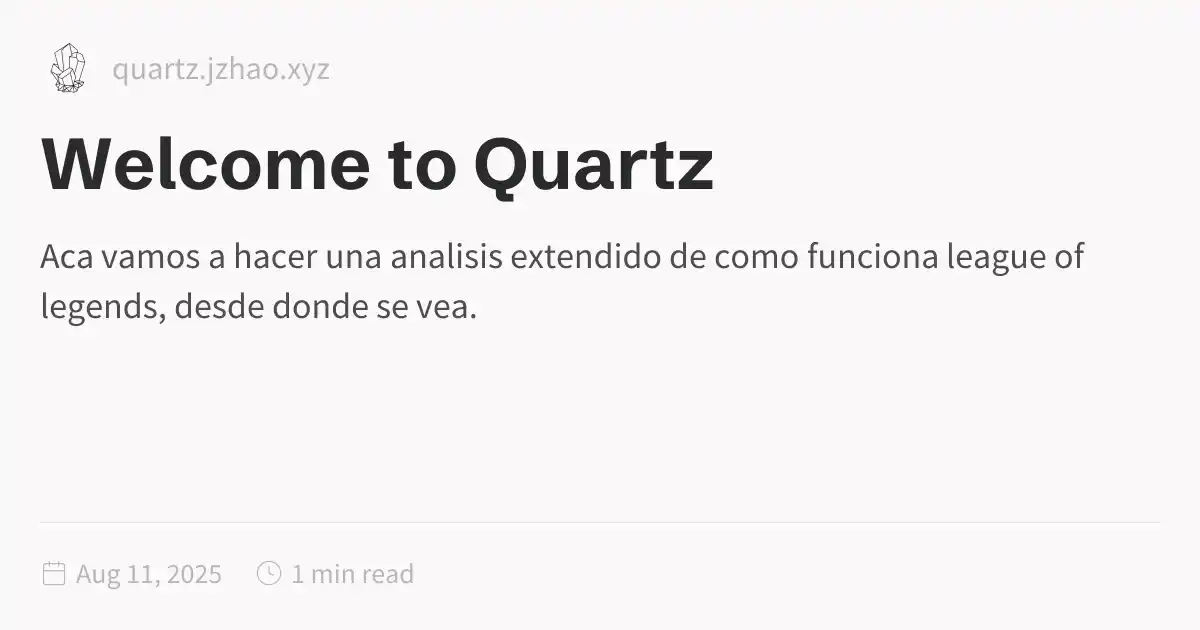
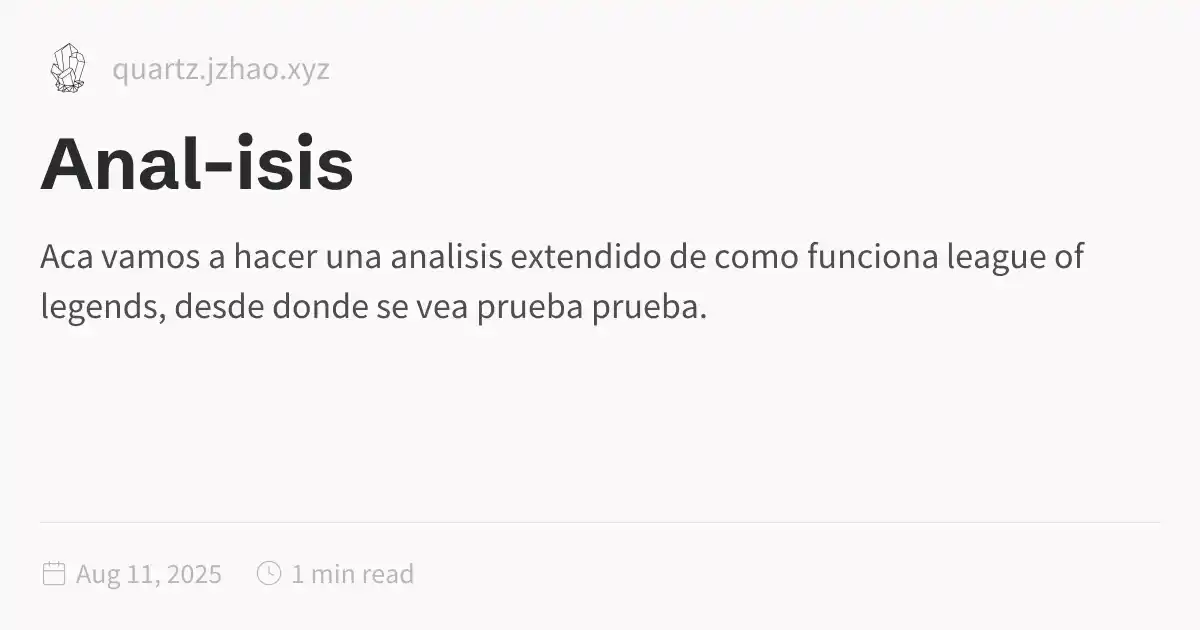
Quartz sync: Aug 12, 2025, 1:55 PM

Changed region(s): [[0.0308, 0.2111, 0.6167, 0.3317], [0.4008, 0.4524, 0.5858, 0.5127]]

diff --git a/public/LOL/anal-isis.html b/public/LOL/anal-isis.html
@@ -1,5 +1,5 @@
 <!DOCTYPE html>
-<html lang="en"><head><title>Welcome to Quartz</title><meta charset="utf-8"/><link rel="preconnect" href="https://fonts.googleapis.com"/><link rel="preconnect" href="https://fonts.gstatic.com"/><link rel="stylesheet" href="https://fonts.googleapis.com/css2?family=Schibsted Grotesk:wght@400;700&amp;family=Source Sans Pro:ital,wght@0,400;0,600;1,400;1,600&amp;family=IBM Plex Mono:wght@400;600&amp;display=swap"/><link rel="preconnect" href="https://cdnjs.cloudflare.com" crossorigin="anonymous"/><meta name="viewport" content="width=device-width, initial-scale=1.0"/><meta name="og:site_name" content="Quartz 4"/><meta property="og:title" content="Welcome to Quartz"/><meta property="og:type" content="website"/><meta name="twitter:card" content="summary_large_image"/><meta name="twitter:title" content="Welcome to Quartz"/><meta name="twitter:description" content="Aca vamos a hacer una analisis extendido de como funciona league of legends, desde donde se vea."/><meta property="og:description" content="Aca vamos a hacer una analisis extendido de como funciona league of legends, desde donde se vea."/><meta property="og:image:alt" content="Aca vamos a hacer una analisis extendido de como funciona league of legends, desde donde se vea."/><meta property="twitter:domain" content="quartz.jzhao.xyz"/><meta property="og:url" content="https://quartz.jzhao.xyz/LOL/anal-isis"/><meta property="twitter:url" content="https://quartz.jzhao.xyz/LOL/anal-isis"/><link rel="icon" href="../static/icon.png"/><meta name="description" content="Aca vamos a hacer una analisis extendido de como funciona league of legends, desde donde se vea."/><meta name="generator" content="Quartz"/><link href="../index.css" rel="stylesheet" type="text/css" spa-preserve/><style>.expand-button {
+<html lang="en"><head><title>Anal-isis</title><meta charset="utf-8"/><link rel="preconnect" href="https://fonts.googleapis.com"/><link rel="preconnect" href="https://fonts.gstatic.com"/><link rel="stylesheet" href="https://fonts.googleapis.com/css2?family=Schibsted Grotesk:wght@400;700&amp;family=Source Sans Pro:ital,wght@0,400;0,600;1,400;1,600&amp;family=IBM Plex Mono:wght@400;600&amp;display=swap"/><link rel="preconnect" href="https://cdnjs.cloudflare.com" crossorigin="anonymous"/><meta name="viewport" content="width=device-width, initial-scale=1.0"/><meta name="og:site_name" content="Quartz 4"/><meta property="og:title" content="Anal-isis"/><meta property="og:type" content="website"/><meta name="twitter:card" content="summary_large_image"/><meta name="twitter:title" content="Anal-isis"/><meta name="twitter:description" content="Aca vamos a hacer una analisis extendido de como funciona league of legends, desde donde se vea prueba prueba."/><meta property="og:description" content="Aca vamos a hacer una analisis extendido de como funciona league of legends, desde donde se vea prueba prueba."/><meta property="og:image:alt" content="Aca vamos a hacer una analisis extendido de como funciona league of legends, desde donde se vea prueba prueba."/><meta property="twitter:domain" content="quartz.jzhao.xyz"/><meta property="og:url" content="https://quartz.jzhao.xyz/LOL/anal-isis"/><meta property="twitter:url" content="https://quartz.jzhao.xyz/LOL/anal-isis"/><link rel="icon" href="../static/icon.png"/><meta name="description" content="Aca vamos a hacer una analisis extendido de como funciona league of legends, desde donde se vea prueba prueba."/><meta name="generator" content="Quartz"/><link href="../index.css" rel="stylesheet" type="text/css" spa-preserve/><style>.expand-button {
   position: absolute;
   display: flex;
   float: right;
@@ -116,7 +116,8 @@ pre:hover > .expand-button {
   padding: 0 12px;
   font-size: 14px;
 }
[2 lines of base64/hex data omitted]
+<p>prueba prueba</p></article><hr/><div class="page-footer"></div></div><div class="right sidebar"><div class="graph"><h3>Graph View</h3><div class="graph-outer"><div class="graph-container" data-cfg="{&quot;drag&quot;:true,&quot;zoom&quot;:true,&quot;depth&quot;:1,&quot;scale&quot;:1.1,&quot;repelForce&quot;:0.5,&quot;centerForce&quot;:0.3,&quot;linkDistance&quot;:30,&quot;fontSize&quot;:0.6,&quot;opacityScale&quot;:1,&quot;showTags&quot;:true,&quot;removeTags&quot;:[],&quot;focusOnHover&quot;:false,&quot;enableRadial&quot;:false}"></div><button class="global-graph-icon" aria-label="Global Graph"><svg version="1.1" xmlns="http://www.w3.org/2000/svg" xmlns:xlink="http://www.w3.org/1999/xlink" x="0px" y="0px" viewBox="0 0 55 55" fill="currentColor" xml:space="preserve"><path d="M49,0c-3.309,0-6,2.691-6,6c0,1.035,0.263,2.009,0.726,2.86l-9.829,9.829C32.542,17.634,30.846,17,29,17
                 s-3.542,0.634-4.898,1.688l-7.669-7.669C16.785,10.424,17,9.74,17,9c0-2.206-1.794-4-4-4S9,6.794,9,9s1.794,4,4,4
                 c0.74,0,1.424-0.215,2.019-0.567l7.669,7.669C21.634,21.458,21,23.154,21,25s0.634,3.542,1.688,4.897L10.024,42.562
                 C8.958,41.595,7.549,41,6,41c-3.309,0-6,2.691-6,6s2.691,6,6,6s6-2.691,6-6c0-1.035-0.263-2.009-0.726-2.86l12.829-12.829
@@ -126,7 +127,7 @@ pre:hover > .expand-button {
                 C46.042,11.405,47.451,12,49,12c3.309,0,6-2.691,6-6S52.309,0,49,0z M11,9c0-1.103,0.897-2,2-2s2,0.897,2,2s-0.897,2-2,2
                 S11,10.103,11,9z M6,51c-2.206,0-4-1.794-4-4s1.794-4,4-4s4,1.794,4,4S8.206,51,6,51z M33,49c0,2.206-1.794,4-4,4s-4-1.794-4-4
                 s1.794-4,4-4S33,46.794,33,49z M29,31c-3.309,0-6-2.691-6-6s2.691-6,6-6s6,2.691,6,6S32.309,31,29,31z M47,41c0,1.103-0.897,2-2,2
-                s-2-0.897-2-2s0.897-2,2-2S47,39.897,47,41z M49,10c-2.206,0-4-1.794-4-4s1.794-4,4-4s4,1.794,4,4S51.206,10,49,10z"></path></svg></button></div><div class="global-graph-outer"><div class="global-graph-container" data-cfg="{&quot;drag&quot;:true,&quot;zoom&quot;:true,&quot;depth&quot;:-1,&quot;scale&quot;:0.9,&quot;repelForce&quot;:0.5,&quot;centerForce&quot;:0.2,&quot;linkDistance&quot;:30,&quot;fontSize&quot;:0.6,&quot;opacityScale&quot;:1,&quot;showTags&quot;:true,&quot;removeTags&quot;:[],&quot;focusOnHover&quot;:true,&quot;enableRadial&quot;:true}"></div></div></div></div><footer class><p>Created with <a href="https://quartz.jzhao.xyz/">Quartz v4.5.1</a> © 2025</p><ul><li><a href="https://github.com/jackyzha0/quartz">GitHub</a></li><li><a href="https://discord.gg/cRFFHYye7t">Discord Community</a></li></ul></footer></div></div></body><script type="application/javascript">function n(){let t=this.parentElement;t.classList.toggle("is-collapsed");let e=t.getElementsByClassName("callout-content")[0];if(!e)return;let l=t.classList.contains("is-collapsed");e.style.gridTemplateRows=l?"0fr":"1fr"}function c(){let t=document.getElementsByClassName("callout is-collapsible");for(let e of t){let l=e.getElementsByClassName("callout-title")[0],s=e.getElementsByClassName("callout-content")[0];if(!l||!s)continue;l.addEventListener("click",n),window.addCleanup(()=>l.removeEventListener("click",n));let o=e.classList.contains("is-collapsed");s.style.gridTemplateRows=o?"0fr":"1fr"}}document.addEventListener("nav",c);
+                s-2-0.897-2-2s0.897-2,2-2S47,39.897,47,41z M49,10c-2.206,0-4-1.794-4-4s1.794-4,4-4s4,1.794,4,4S51.206,10,49,10z"></path></svg></button></div><div class="global-graph-outer"><div class="global-graph-container" data-cfg="{&quot;drag&quot;:true,&quot;zoom&quot;:true,&quot;depth&quot;:-1,&quot;scale&quot;:0.9,&quot;repelForce&quot;:0.5,&quot;centerForce&quot;:0.2,&quot;linkDistance&quot;:30,&quot;fontSize&quot;:0.6,&quot;opacityScale&quot;:1,&quot;showTags&quot;:true,&quot;removeTags&quot;:[],&quot;focusOnHover&quot;:true,&quot;enableRadial&quot;:true}"></div></div></div><div class="backlinks"><h3>Backlinks</h3><ul id="list-2" class="overflow"><li><a href="../" class="internal">Notas pedorras</a></li><li class="overflow-end"></li></ul></div></div><footer class><p>Created with <a href="https://quartz.jzhao.xyz/">Quartz v4.5.1</a> © 2025</p><ul><li><a href="https://github.com/jackyzha0/quartz">GitHub</a></li><li><a href="https://discord.gg/cRFFHYye7t">Discord Community</a></li></ul></footer></div></div></body><script type="application/javascript">function n(){let t=this.parentElement;t.classList.toggle("is-collapsed");let e=t.getElementsByClassName("callout-content")[0];if(!e)return;let l=t.classList.contains("is-collapsed");e.style.gridTemplateRows=l?"0fr":"1fr"}function c(){let t=document.getElementsByClassName("callout is-collapsible");for(let e of t){let l=e.getElementsByClassName("callout-title")[0],s=e.getElementsByClassName("callout-content")[0];if(!l||!s)continue;l.addEventListener("click",n),window.addCleanup(()=>l.removeEventListener("click",n));let o=e.classList.contains("is-collapsed");s.style.gridTemplateRows=o?"0fr":"1fr"}}document.addEventListener("nav",c);
 </script><script type="module">function f(i,e){if(!i)return;function r(o){o.target===this&&(o.preventDefault(),o.stopPropagation(),e())}function t(o){o.key.startsWith("Esc")&&(o.preventDefault(),e())}i?.addEventListener("click",r),window.addCleanup(()=>i?.removeEventListener("click",r)),document.addEventListener("keydown",t),window.addCleanup(()=>document.removeEventListener("keydown",t))}function y(i){for(;i.firstChild;)i.removeChild(i.firstChild)}var h=class{constructor(e,r){this.container=e;this.content=r;this.setupEventListeners(),this.setupNavigationControls(),this.resetTransform()}isDragging=!1;startPan={x:0,y:0};currentPan={x:0,y:0};scale=1;MIN_SCALE=.5;MAX_SCALE=3;cleanups=[];setupEventListeners(){let e=this.onMouseDown.bind(this),r=this.onMouseMove.bind(this),t=this.onMouseUp.bind(this),o=this.resetTransform.bind(this);this.container.addEventListener("mousedown",e),document.addEventListener("mousemove",r),document.addEventListener("mouseup",t),window.addEventListener("resize",o),this.cleanups.push(()=>this.container.removeEventListener("mousedown",e),()=>document.removeEventListener("mousemove",r),()=>document.removeEventListener("mouseup",t),()=>window.removeEventListener("resize",o))}cleanup(){for(let e of this.cleanups)e()}setupNavigationControls(){let e=document.createElement("div");e.className="mermaid-controls";let r=this.createButton("+",()=>this.zoom(.1)),t=this.createButton("-",()=>this.zoom(-.1)),o=this.createButton("Reset",()=>this.resetTransform());e.appendChild(t),e.appendChild(o),e.appendChild(r),this.container.appendChild(e)}createButton(e,r){let t=document.createElement("button");return t.textContent=e,t.className="mermaid-control-button",t.addEventListener("click",r),window.addCleanup(()=>t.removeEventListener("click",r)),t}onMouseDown(e){e.button===0&&(this.isDragging=!0,this.startPan={x:e.clientX-this.currentPan.x,y:e.clientY-this.currentPan.y},this.container.style.cursor="grabbing")}onMouseMove(e){this.isDragging&&(e.preventDefault(),this.currentPan={x:e.clientX-this.startPan.x,y:e.clientY-this.startPan.y},this.updateTransform())}onMouseUp(){this.isDragging=!1,this.container.style.cursor="grab"}zoom(e){let r=Math.min(Math.max(this.scale+e,this.MIN_SCALE),this.MAX_SCALE),t=this.content.getBoundingClientRect(),o=t.width/2,n=t.height/2,c=r-this.scale;this.currentPan.x-=o*c,this.currentPan.y-=n*c,this.scale=r,this.updateTransform()}updateTransform(){this.content.style.transform=`translate(${this.currentPan.x}px, ${this.currentPan.y}px) scale(${this.scale})`}resetTransform(){this.scale=1;let e=this.content.querySelector("svg");this.currentPan={x:e.getBoundingClientRect().width/2,y:e.getBoundingClientRect().height/2},this.updateTransform()}},C=["--secondary","--tertiary","--gray","--light","--lightgray","--highlight","--dark","--darkgray","--codeFont"],E;document.addEventListener("nav",async()=>{let e=document.querySelector(".center").querySelectorAll("code.mermaid");if(e.length===0)return;E||=await import("https://cdnjs.cloudflare.com/ajax/libs/mermaid/11.4.0/mermaid.esm.min.mjs");let r=E.default,t=new WeakMap;for(let n of e)t.set(n,n.innerText);async function o(){for(let s of e){s.removeAttribute("data-processed");let a=t.get(s);a&&(s.innerHTML=a)}let n=C.reduce((s,a)=>(s[a]=window.getComputedStyle(document.documentElement).getPropertyValue(a),s),{}),c=document.documentElement.getAttribute("saved-theme")==="dark";r.initialize({startOnLoad:!1,securityLevel:"loose",theme:c?"dark":"base",themeVariables:{fontFamily:n["--codeFont"],primaryColor:n["--light"],primaryTextColor:n["--darkgray"],primaryBorderColor:n["--tertiary"],lineColor:n["--darkgray"],secondaryColor:n["--secondary"],tertiaryColor:n["--tertiary"],clusterBkg:n["--light"],edgeLabelBackground:n["--highlight"]}}),await r.run({nodes:e})}await o(),document.addEventListener("themechange",o),window.addCleanup(()=>document.removeEventListener("themechange",o));for(let n=0;n<e.length;n++){let v=function(){let g=l.querySelector("#mermaid-space"),m=l.querySelector(".mermaid-content");if(!m)return;y(m);let w=c.querySelector("svg").cloneNode(!0);m.appendChild(w),l.classList.add("active"),g.style.cursor="grab",u=new h(g,m)},M=function(){l.classList.remove("active"),u?.cleanup(),u=null},c=e[n],s=c.parentElement,a=s.querySelector(".clipboard-button"),d=s.querySelector(".expand-button"),p=window.getComputedStyle(a),L=a.offsetWidth+parseFloat(p.marginLeft||"0")+parseFloat(p.marginRight||"0");d.style.right=`calc(${L}px + 0.3rem)`,s.prepend(d);let l=s.querySelector("#mermaid-container");if(!l)return;let u=null;d.addEventListener("click",v),f(l,M),window.addCleanup(()=>{u?.cleanup(),d.removeEventListener("click",v)})}});
 </script><script src="https://cdn.jsdelivr.net/npm/katex@0.16.11/dist/contrib/copy-tex.min.js" type="application/javascript"></script><script type="application/javascript">
         const socket = new WebSocket('ws://localhost:3001')

diff --git a/public/LOL/index.html b/public/LOL/index.html
@@ -116,7 +116,7 @@ pre:hover > .expand-button {
   padding: 0 12px;
   font-size: 14px;
 }
[2 lines of base64/hex data omitted]
 </script><script type="module">function f(i,e){if(!i)return;function r(o){o.target===this&&(o.preventDefault(),o.stopPropagation(),e())}function t(o){o.key.startsWith("Esc")&&(o.preventDefault(),e())}i?.addEventListener("click",r),window.addCleanup(()=>i?.removeEventListener("click",r)),document.addEventListener("keydown",t),window.addCleanup(()=>document.removeEventListener("keydown",t))}function y(i){for(;i.firstChild;)i.removeChild(i.firstChild)}var h=class{constructor(e,r){this.container=e;this.content=r;this.setupEventListeners(),this.setupNavigationControls(),this.resetTransform()}isDragging=!1;startPan={x:0,y:0};currentPan={x:0,y:0};scale=1;MIN_SCALE=.5;MAX_SCALE=3;cleanups=[];setupEventListeners(){let e=this.onMouseDown.bind(this),r=this.onMouseMove.bind(this),t=this.onMouseUp.bind(this),o=this.resetTransform.bind(this);this.container.addEventListener("mousedown",e),document.addEventListener("mousemove",r),document.addEventListener("mouseup",t),window.addEventListener("resize",o),this.cleanups.push(()=>this.container.removeEventListener("mousedown",e),()=>document.removeEventListener("mousemove",r),()=>document.removeEventListener("mouseup",t),()=>window.removeEventListener("resize",o))}cleanup(){for(let e of this.cleanups)e()}setupNavigationControls(){let e=document.createElement("div");e.className="mermaid-controls";let r=this.createButton("+",()=>this.zoom(.1)),t=this.createButton("-",()=>this.zoom(-.1)),o=this.createButton("Reset",()=>this.resetTransform());e.appendChild(t),e.appendChild(o),e.appendChild(r),this.container.appendChild(e)}createButton(e,r){let t=document.createElement("button");return t.textContent=e,t.className="mermaid-control-button",t.addEventListener("click",r),window.addCleanup(()=>t.removeEventListener("click",r)),t}onMouseDown(e){e.button===0&&(this.isDragging=!0,this.startPan={x:e.clientX-this.currentPan.x,y:e.clientY-this.currentPan.y},this.container.style.cursor="grabbing")}onMouseMove(e){this.isDragging&&(e.preventDefault(),this.currentPan={x:e.clientX-this.startPan.x,y:e.clientY-this.startPan.y},this.updateTransform())}onMouseUp(){this.isDragging=!1,this.container.style.cursor="grab"}zoom(e){let r=Math.min(Math.max(this.scale+e,this.MIN_SCALE),this.MAX_SCALE),t=this.content.getBoundingClientRect(),o=t.width/2,n=t.height/2,c=r-this.scale;this.currentPan.x-=o*c,this.currentPan.y-=n*c,this.scale=r,this.updateTransform()}updateTransform(){this.content.style.transform=`translate(${this.currentPan.x}px, ${this.currentPan.y}px) scale(${this.scale})`}resetTransform(){this.scale=1;let e=this.content.querySelector("svg");this.currentPan={x:e.getBoundingClientRect().width/2,y:e.getBoundingClientRect().height/2},this.updateTransform()}},C=["--secondary","--tertiary","--gray","--light","--lightgray","--highlight","--dark","--darkgray","--codeFont"],E;document.addEventListener("nav",async()=>{let e=document.querySelector(".center").querySelectorAll("code.mermaid");if(e.length===0)return;E||=await import("https://cdnjs.cloudflare.com/ajax/libs/mermaid/11.4.0/mermaid.esm.min.mjs");let r=E.default,t=new WeakMap;for(let n of e)t.set(n,n.innerText);async function o(){for(let s of e){s.removeAttribute("data-processed");let a=t.get(s);a&&(s.innerHTML=a)}let n=C.reduce((s,a)=>(s[a]=window.getComputedStyle(document.documentElement).getPropertyValue(a),s),{}),c=document.documentElement.getAttribute("saved-theme")==="dark";r.initialize({startOnLoad:!1,securityLevel:"loose",theme:c?"dark":"base",themeVariables:{fontFamily:n["--codeFont"],primaryColor:n["--light"],primaryTextColor:n["--darkgray"],primaryBorderColor:n["--tertiary"],lineColor:n["--darkgray"],secondaryColor:n["--secondary"],tertiaryColor:n["--tertiary"],clusterBkg:n["--light"],edgeLabelBackground:n["--highlight"]}}),await r.run({nodes:e})}await o(),document.addEventListener("themechange",o),window.addCleanup(()=>document.removeEventListener("themechange",o));for(let n=0;n<e.length;n++){let v=function(){let g=l.querySelector("#mermaid-space"),m=l.querySelector(".mermaid-content");if(!m)return;y(m);let w=c.querySelector("svg").cloneNode(!0);m.appendChild(w),l.classList.add("active"),g.style.cursor="grab",u=new h(g,m)},M=function(){l.classList.remove("active"),u?.cleanup(),u=null},c=e[n],s=c.parentElement,a=s.querySelector(".clipboard-button"),d=s.querySelector(".expand-button"),p=window.getComputedStyle(a),L=a.offsetWidth+parseFloat(p.marginLeft||"0")+parseFloat(p.marginRight||"0");d.style.right=`calc(${L}px + 0.3rem)`,s.prepend(d);let l=s.querySelector("#mermaid-container");if(!l)return;let u=null;d.addEventListener("click",v),f(l,M),window.addCleanup(()=>{u?.cleanup(),d.removeEventListener("click",v)})}});
 </script><script src="https://cdn.jsdelivr.net/npm/katex@0.16.11/dist/contrib/copy-tex.min.js" type="application/javascript"></script><script type="application/javascript">
         const socket = new WebSocket('ws://localhost:3001')

diff --git a/public/tags/index.html b/public/tags/index.html
@@ -116,7 +116,7 @@ pre:hover > .expand-button {
   padding: 0 12px;
   font-size: 14px;
 }
[2 lines of base64/hex data omitted]
 </script><script type="module">function f(i,e){if(!i)return;function r(o){o.target===this&&(o.preventDefault(),o.stopPropagation(),e())}function t(o){o.key.startsWith("Esc")&&(o.preventDefault(),e())}i?.addEventListener("click",r),window.addCleanup(()=>i?.removeEventListener("click",r)),document.addEventListener("keydown",t),window.addCleanup(()=>document.removeEventListener("keydown",t))}function y(i){for(;i.firstChild;)i.removeChild(i.firstChild)}var h=class{constructor(e,r){this.container=e;this.content=r;this.setupEventListeners(),this.setupNavigationControls(),this.resetTransform()}isDragging=!1;startPan={x:0,y:0};currentPan={x:0,y:0};scale=1;MIN_SCALE=.5;MAX_SCALE=3;cleanups=[];setupEventListeners(){let e=this.onMouseDown.bind(this),r=this.onMouseMove.bind(this),t=this.onMouseUp.bind(this),o=this.resetTransform.bind(this);this.container.addEventListener("mousedown",e),document.addEventListener("mousemove",r),document.addEventListener("mouseup",t),window.addEventListener("resize",o),this.cleanups.push(()=>this.container.removeEventListener("mousedown",e),()=>document.removeEventListener("mousemove",r),()=>document.removeEventListener("mouseup",t),()=>window.removeEventListener("resize",o))}cleanup(){for(let e of this.cleanups)e()}setupNavigationControls(){let e=document.createElement("div");e.className="mermaid-controls";let r=this.createButton("+",()=>this.zoom(.1)),t=this.createButton("-",()=>this.zoom(-.1)),o=this.createButton("Reset",()=>this.resetTransform());e.appendChild(t),e.appendChild(o),e.appendChild(r),this.container.appendChild(e)}createButton(e,r){let t=document.createElement("button");return t.textContent=e,t.className="mermaid-control-button",t.addEventListener("click",r),window.addCleanup(()=>t.removeEventListener("click",r)),t}onMouseDown(e){e.button===0&&(this.isDragging=!0,this.startPan={x:e.clientX-this.currentPan.x,y:e.clientY-this.currentPan.y},this.container.style.cursor="grabbing")}onMouseMove(e){this.isDragging&&(e.preventDefault(),this.currentPan={x:e.clientX-this.startPan.x,y:e.clientY-this.startPan.y},this.updateTransform())}onMouseUp(){this.isDragging=!1,this.container.style.cursor="grab"}zoom(e){let r=Math.min(Math.max(this.scale+e,this.MIN_SCALE),this.MAX_SCALE),t=this.content.getBoundingClientRect(),o=t.width/2,n=t.height/2,c=r-this.scale;this.currentPan.x-=o*c,this.currentPan.y-=n*c,this.scale=r,this.updateTransform()}updateTransform(){this.content.style.transform=`translate(${this.currentPan.x}px, ${this.currentPan.y}px) scale(${this.scale})`}resetTransform(){this.scale=1;let e=this.content.querySelector("svg");this.currentPan={x:e.getBoundingClientRect().width/2,y:e.getBoundingClientRect().height/2},this.updateTransform()}},C=["--secondary","--tertiary","--gray","--light","--lightgray","--highlight","--dark","--darkgray","--codeFont"],E;document.addEventListener("nav",async()=>{let e=document.querySelector(".center").querySelectorAll("code.mermaid");if(e.length===0)return;E||=await import("https://cdnjs.cloudflare.com/ajax/libs/mermaid/11.4.0/mermaid.esm.min.mjs");let r=E.default,t=new WeakMap;for(let n of e)t.set(n,n.innerText);async function o(){for(let s of e){s.removeAttribute("data-processed");let a=t.get(s);a&&(s.innerHTML=a)}let n=C.reduce((s,a)=>(s[a]=window.getComputedStyle(document.documentElement).getPropertyValue(a),s),{}),c=document.documentElement.getAttribute("saved-theme")==="dark";r.initialize({startOnLoad:!1,securityLevel:"loose",theme:c?"dark":"base",themeVariables:{fontFamily:n["--codeFont"],primaryColor:n["--light"],primaryTextColor:n["--darkgray"],primaryBorderColor:n["--tertiary"],lineColor:n["--darkgray"],secondaryColor:n["--secondary"],tertiaryColor:n["--tertiary"],clusterBkg:n["--light"],edgeLabelBackground:n["--highlight"]}}),await r.run({nodes:e})}await o(),document.addEventListener("themechange",o),window.addCleanup(()=>document.removeEventListener("themechange",o));for(let n=0;n<e.length;n++){let v=function(){let g=l.querySelector("#mermaid-space"),m=l.querySelector(".mermaid-content");if(!m)return;y(m);let w=c.querySelector("svg").cloneNode(!0);m.appendChild(w),l.classList.add("active"),g.style.cursor="grab",u=new h(g,m)},M=function(){l.classList.remove("active"),u?.cleanup(),u=null},c=e[n],s=c.parentElement,a=s.querySelector(".clipboard-button"),d=s.querySelector(".expand-button"),p=window.getComputedStyle(a),L=a.offsetWidth+parseFloat(p.marginLeft||"0")+parseFloat(p.marginRight||"0");d.style.right=`calc(${L}px + 0.3rem)`,s.prepend(d);let l=s.querySelector("#mermaid-container");if(!l)return;let u=null;d.addEventListener("click",v),f(l,M),window.addCleanup(()=>{u?.cleanup(),d.removeEventListener("click",v)})}});
 </script><script src="https://cdn.jsdelivr.net/npm/katex@0.16.11/dist/contrib/copy-tex.min.js" type="application/javascript"></script><script type="application/javascript">
         const socket = new WebSocket('ws://localhost:3001')

diff --git a/public/index.html b/public/index.html
@@ -116,7 +116,7 @@ pre:hover > .expand-button {
   padding: 0 12px;
   font-size: 14px;
 }
[2 lines of base64/hex data omitted]
 <p><a href="./LOL/anal-isis" class="internal alias" data-slug="LOL/anal-isis">Anal-isis</a></p></article><hr/><div class="page-footer"></div></div><div class="right sidebar"><div class="graph"><h3>Graph View</h3><div class="graph-outer"><div class="graph-container" data-cfg="{&quot;drag&quot;:true,&quot;zoom&quot;:true,&quot;depth&quot;:1,&quot;scale&quot;:1.1,&quot;repelForce&quot;:0.5,&quot;centerForce&quot;:0.3,&quot;linkDistance&quot;:30,&quot;fontSize&quot;:0.6,&quot;opacityScale&quot;:1,&quot;showTags&quot;:true,&quot;removeTags&quot;:[],&quot;focusOnHover&quot;:false,&quot;enableRadial&quot;:false}"></div><button class="global-graph-icon" aria-label="Global Graph"><svg version="1.1" xmlns="http://www.w3.org/2000/svg" xmlns:xlink="http://www.w3.org/1999/xlink" x="0px" y="0px" viewBox="0 0 55 55" fill="currentColor" xml:space="preserve"><path d="M49,0c-3.309,0-6,2.691-6,6c0,1.035,0.263,2.009,0.726,2.86l-9.829,9.829C32.542,17.634,30.846,17,29,17
                 s-3.542,0.634-4.898,1.688l-7.669-7.669C16.785,10.424,17,9.74,17,9c0-2.206-1.794-4-4-4S9,6.794,9,9s1.794,4,4,4
                 c0.74,0,1.424-0.215,2.019-0.567l7.669,7.669C21.634,21.458,21,23.154,21,25s0.634,3.542,1.688,4.897L10.024,42.562
